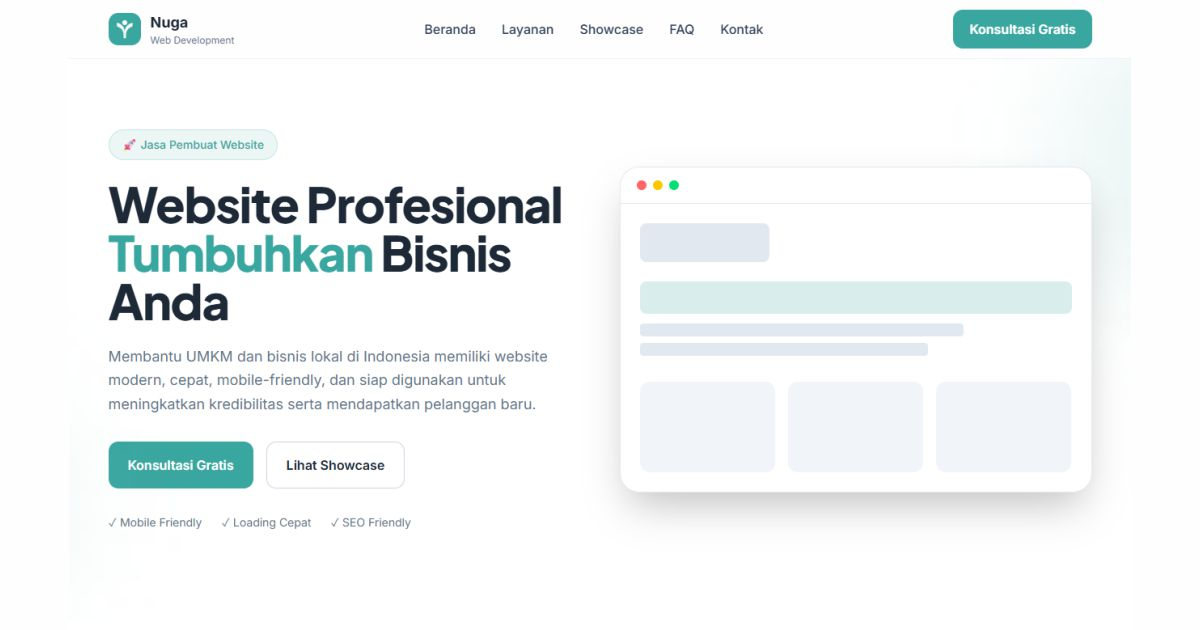
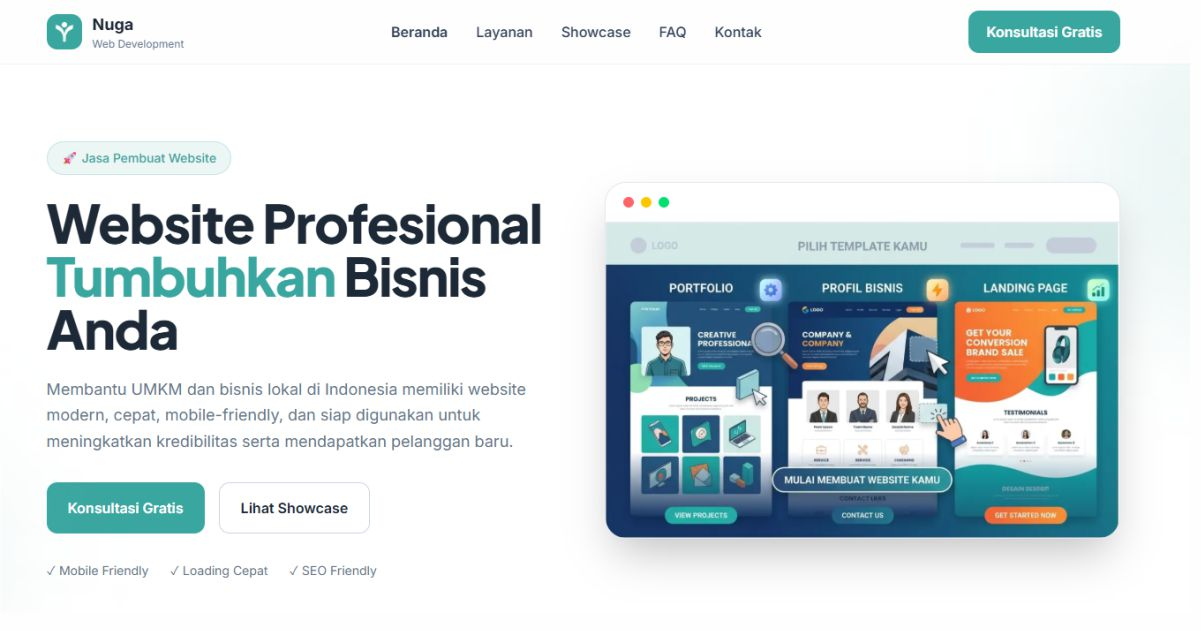
feat: preload CSS for improved loading performance across multiple pages

diff --git a/public/index.html b/public/index.html
@@ -6,13 +6,29 @@
     <meta name="theme-color" content="#3aa6a0" />
 
     <meta name="format-detection" content="telephone=no" />
-    <link href="/css/output.css" rel="stylesheet" />
+
+    <link
+      rel="preload"
+      href="/css/output.css"
+      as="style"
+      onload="
+        this.onload = null;
+        this.rel = 'stylesheet';
+      "
+    />
+    <noscript><link rel="stylesheet" href="/css/output.css" /></noscript>
+
     <link rel="preconnect" href="https://fonts.googleapis.com" />
     <link rel="preconnect" href="https://fonts.gstatic.com" crossorigin />
 
     <link
       href="https://fonts.googleapis.com/css2?family=Inter:wght@400;500;600;700&family=Plus+Jakarta+Sans:wght@600;700;800&display=swap"
-      rel="stylesheet"
+      as="style"
+      onload="
+        this.onload = null;
+        this.rel = 'stylesheet';
+      "
+      rel="preload"
     />
     <title>Nuga | Web Development</title>
 

diff --git a/src/pages/index.html b/src/pages/index.html
@@ -6,13 +6,29 @@
     <meta name="theme-color" content="#3aa6a0" />
 
     <meta name="format-detection" content="telephone=no" />
-    <link href="/css/output.css" rel="stylesheet" />
+
+    <link
+      rel="preload"
+      href="/css/output.css"
+      as="style"
+      onload="
+        this.onload = null;
+        this.rel = 'stylesheet';
+      "
+    />
+    <noscript><link rel="stylesheet" href="/css/output.css" /></noscript>
+
     <link rel="preconnect" href="https://fonts.googleapis.com" />
     <link rel="preconnect" href="https://fonts.gstatic.com" crossorigin />
 
     <link
       href="https://fonts.googleapis.com/css2?family=Inter:wght@400;500;600;700&family=Plus+Jakarta+Sans:wght@600;700;800&display=swap"
-      rel="stylesheet"
+      as="style"
+      onload="
+        this.onload = null;
+        this.rel = 'stylesheet';
+      "
+      rel="preload"
     />
     <title>Nuga | Web Development</title>
 

diff --git a/public/layanan/company-profile/index.html b/public/layanan/company-profile/index.html
@@ -32,7 +32,16 @@
       content="Jasa pembuatan website company profile profesional untuk UMKM, perusahaan, dan bisnis lokal. Tampilkan bisnis Anda lebih kredibel bersama Nuga."
     />
 
-    <link rel="stylesheet" href="/css/output.css" />
+    <link
+      rel="preload"
+      href="/css/output.css"
+      as="style"
+      onload="
+        this.onload = null;
+        this.rel = 'stylesheet';
+      "
+    />
+    <noscript><link rel="stylesheet" href="/css/output.css" /></noscript>
 
     <link rel="preconnect" href="https://fonts.googleapis.com" />
     <link rel="preconnect" href="https://fonts.gstatic.com" crossorigin />

diff --git a/public/layanan/landing-page/index.html b/public/layanan/landing-page/index.html
@@ -32,7 +32,16 @@
       content="Nuga Web Development membantu UMKM dan bisnis lokal di Indonesia memiliki landing page profesional yang fokus menghasilkan calon pelanggan."
     />
 
-    <link rel="stylesheet" href="/css/output.css" />
+    <link
+      rel="preload"
+      href="/css/output.css"
+      as="style"
+      onload="
+        this.onload = null;
+        this.rel = 'stylesheet';
+      "
+    />
+    <noscript><link rel="stylesheet" href="/css/output.css" /></noscript>
 
     <link rel="preconnect" href="https://fonts.googleapis.com" />
     <link rel="preconnect" href="https://fonts.gstatic.com" crossorigin />

diff --git a/public/layanan/portfolio-website/index.html b/public/layanan/portfolio-website/index.html
@@ -32,7 +32,16 @@
       content="Jasa pembuatan website portfolio profesional untuk freelancer, content creator, mahasiswa, dan profesional yang ingin membangun personal branding."
     />
 
-    <link rel="stylesheet" href="/css/output.css" />
+    <link
+      rel="preload"
+      href="/css/output.css"
+      as="style"
+      onload="
+        this.onload = null;
+        this.rel = 'stylesheet';
+      "
+    />
+    <noscript><link rel="stylesheet" href="/css/output.css" /></noscript>
 
     <link rel="preconnect" href="https://fonts.googleapis.com" />
     <link rel="preconnect" href="https://fonts.gstatic.com" crossorigin />

diff --git a/src/pages/company-profile.html b/src/pages/company-profile.html
@@ -13,7 +13,16 @@
       content="Jasa pembuatan website company profile profesional untuk UMKM, perusahaan, dan bisnis lokal. Tampilkan bisnis Anda lebih kredibel bersama Nuga."
     />
 
-    <link rel="stylesheet" href="/css/output.css" />
+    <link
+      rel="preload"
+      href="/css/output.css"
+      as="style"
+      onload="
+        this.onload = null;
+        this.rel = 'stylesheet';
+      "
+    />
+    <noscript><link rel="stylesheet" href="/css/output.css" /></noscript>
 
     <link rel="preconnect" href="https://fonts.googleapis.com" />
     <link rel="preconnect" href="https://fonts.gstatic.com" crossorigin />

diff --git a/src/pages/landing-page.html b/src/pages/landing-page.html
@@ -13,7 +13,16 @@
       content="Nuga Web Development membantu UMKM dan bisnis lokal di Indonesia memiliki landing page profesional yang fokus menghasilkan calon pelanggan."
     />
 
-    <link rel="stylesheet" href="/css/output.css" />
+    <link
+      rel="preload"
+      href="/css/output.css"
+      as="style"
+      onload="
+        this.onload = null;
+        this.rel = 'stylesheet';
+      "
+    />
+    <noscript><link rel="stylesheet" href="/css/output.css" /></noscript>
 
     <link rel="preconnect" href="https://fonts.googleapis.com" />
     <link rel="preconnect" href="https://fonts.gstatic.com" crossorigin />

diff --git a/src/pages/portfolio-website.html b/src/pages/portfolio-website.html
@@ -13,7 +13,16 @@
       content="Jasa pembuatan website portfolio profesional untuk freelancer, content creator, mahasiswa, dan profesional yang ingin membangun personal branding."
     />
 
-    <link rel="stylesheet" href="/css/output.css" />
+    <link
+      rel="preload"
+      href="/css/output.css"
+      as="style"
+      onload="
+        this.onload = null;
+        this.rel = 'stylesheet';
+      "
+    />
+    <noscript><link rel="stylesheet" href="/css/output.css" /></noscript>
 
     <link rel="preconnect" href="https://fonts.googleapis.com" />
     <link rel="preconnect" href="https://fonts.gstatic.com" crossorigin />

diff --git a/public/css/output.css b/public/css/output.css
@@ -370,9 +370,6 @@
   .h-96 {
     height: calc(var(--spacing) * 96);
   }
-  .h-100 {
-    height: calc(var(--spacing) * 100);
-  }
   .h-full {
     height: 100%;
   }
@@ -411,9 +408,6 @@
   }
   .w-96 {
     width: calc(var(--spacing) * 96);
-  }
-  .w-100 {
-    width: calc(var(--spacing) * 100);
   }
   .w-125 {
     width: calc(var(--spacing) * 125);